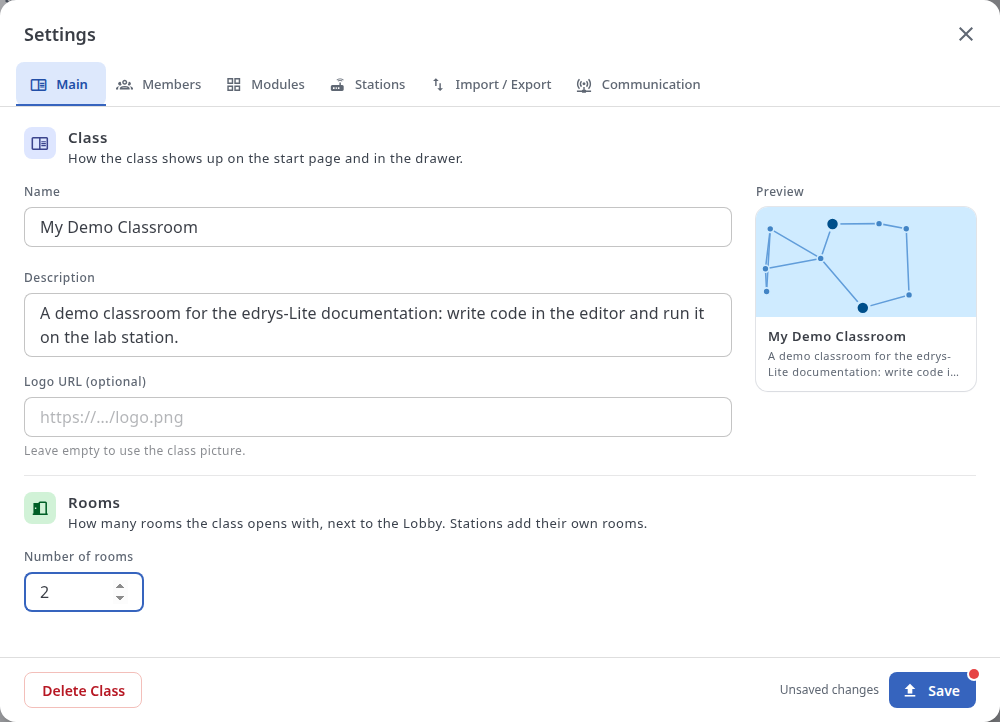
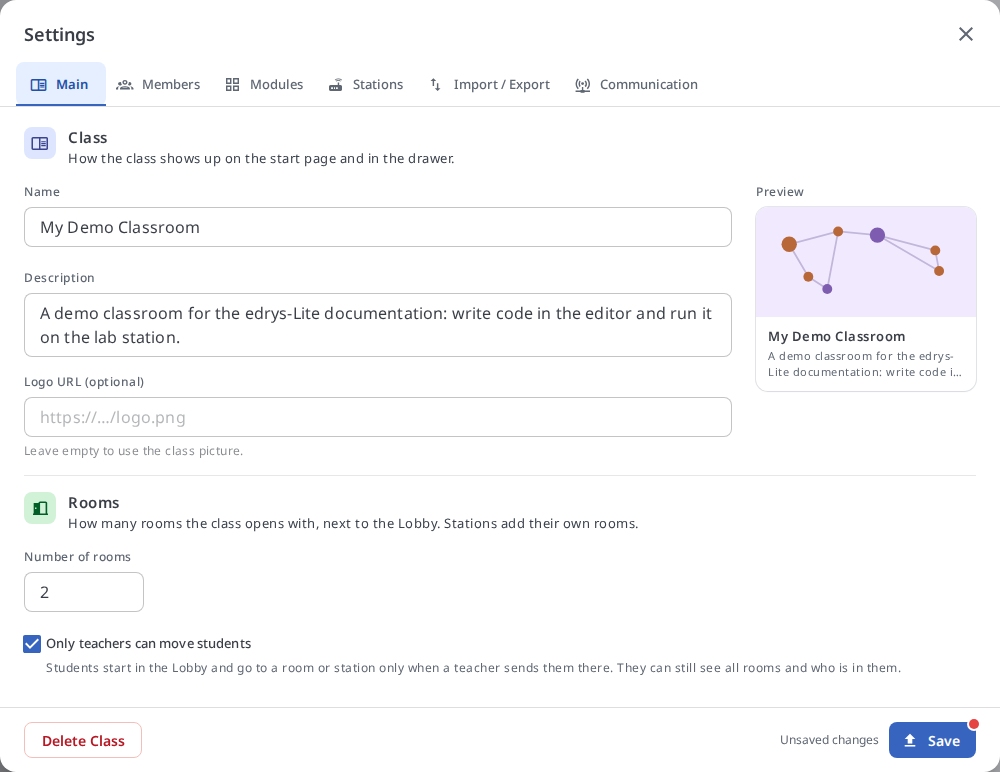
Document the setting where only teachers move students

diff --git a/README.md b/README.md
@@ -201,6 +201,21 @@ The number of rooms defines how many numbered rooms (Room 1, Room 2, ...) the cl
 
 </section>
 
+    --{{0}}--
+With `Only teachers can move students`, students no longer choose their room themselves: they start in the Lobby and go to a room or a station only when a teacher sends them there.
+They still see all rooms and who is in them.
+
+<section>
+
+- To move a student, click the move button at the end of their row in the room list and choose the room or station. The room they are in now is marked `Here now`.
+- To move several students at once, click `Select` next to `New room`, tick the students, and choose the room under `Move to…`. Each room shows how many of them are already there.
+- A moved student gets a short notice, and the room list tells them that their teacher moves them between rooms.
+- Turning the setting on during a class leaves everyone where they are; it only stops students from changing rooms. Turning it off lets them move freely again.
+- A student who reloads the page starts in the Lobby again.
+- The setting organizes a class; it is not a security boundary like for an exam. Everybody's browser still receives the whole classroom.
+
+</section>
+
 ### Members
 
     --{{0}}--
@@ -336,6 +351,7 @@ meta:
   logo: url of the lab logo
   description: description of the lab
   defaultNumberOfRooms: number of rooms
+  teacherMovesStudents: true if only teachers move students between rooms
 modules:
   - url: url of the module
     config: available for everyone
@@ -429,6 +445,7 @@ If you tick `Keep the settings in the address bar`, your own address bar shows t
     --{{0}}--
 Once you have joined a classroom, the rooms menu (☰, or the room name in the top bar) lists its rooms and who is in them.
 Click on a room to move there. Everyone starts in the Lobby. Each room has its own color and letter, which also mark it in the top bar and in the settings.
+In a classroom where only teachers move students, the rooms cannot be clicked: a line under the class name says so, and a short notice tells you when your teacher has moved you.
 
     --{{0}}--
 The modules of a room are shared by everyone in it: if one student types into an editor, the others see it right away, together with each other's cursors.
@@ -464,7 +481,7 @@ Below the link, `Connected stations` lists the stations that are open right now,
 ![Station](images/station-settings.png)
 
     --{{0}}--
-The station appears as a separate room in the classroom, and students can interact with it by clicking on the room.
+The station appears as a separate room in the classroom, and students can interact with it by clicking on the room (or, if only teachers move students, once a teacher sends them there).
 On the station itself, a `Station Mode Active` box shows its name. Type a new name and press the arrow button to rename it; `Exit Station Mode` opens the normal classroom link instead.
 Every station also has its own user, which is shown in the room list. Changing the station name also changes this user name.
 You can open multiple stations in parallel on different devices to make several hardware resources available.
